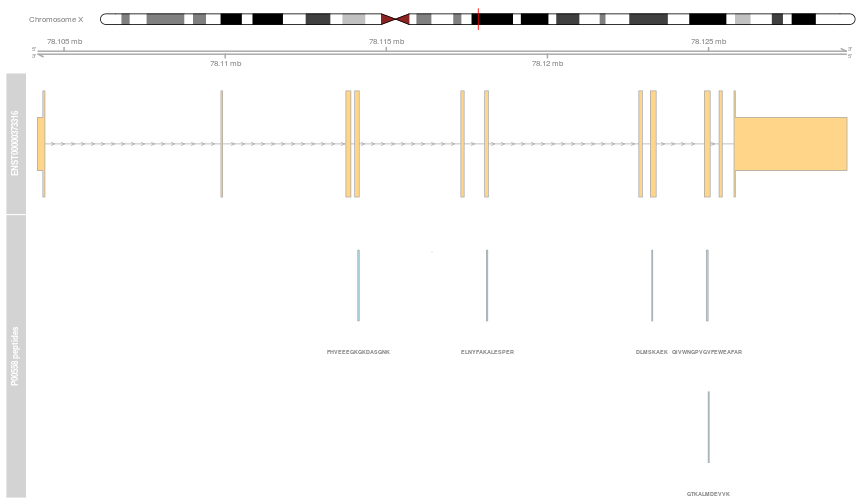
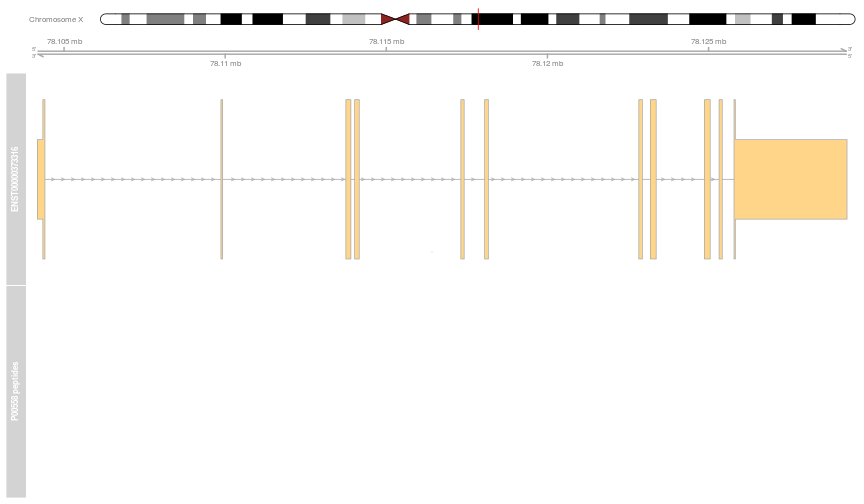
fig placement

diff --git a/mapping.md b/mapping.md
@@ -5,7 +5,7 @@
 The **goal** is to map peptides from protein coordinates (1 to *L_p*)
 to genomic coordinates.
 
-![plot of chunk mapplot](figure/mapplot-1.png) 
+<img src="figure/mapplot-1.png" title="plot of chunk mapplot" alt="plot of chunk mapplot" style="display: block; margin: auto;" />
 
 Illustration with the
 [`Pbase`](http://bioconductor.org/packages/devel/bioc/html/Pbase.html)
@@ -33,7 +33,7 @@ peptides:
 
 For example, P00558:
 
-![plot of chunk pplot1](figure/pplot1-1.png) 
+<img src="figure/pplot1-1.png" title="plot of chunk pplot1" alt="plot of chunk pplot1" style="display: block; margin: auto;" />
 
 ## Genomic coordinates of the transcripts/exons
 
@@ -43,7 +43,7 @@ grl <- etrid2grl(acols(p)$ENST)
 pcgrl <- proteinCoding(grl)
 ```
 
-![plot of chunk gviz1](figure/gviz1-1.png) 
+<img src="figure/gviz1-1.png" title="plot of chunk gviz1" alt="plot of chunk gviz1" style="display: block; margin: auto;" />
 
 ## Mapping peptides to the genome
 
@@ -52,13 +52,43 @@ pcgrl <- proteinCoding(grl)
 res <- pmapToGenome(p, pcgrl)
 ```
 
-![plot of chunk gviz2](figure/gviz2-1.png) 
+```
+## Warning: Mapping failed. Returning an empty range.
+```
+
+```
+## Warning: Mapping failed. Returning an empty range.
+```
+
+```
+## Warning: Mapping failed. Returning an empty range.
+```
+
+```
+## Warning: Mapping failed. Returning an empty range.
+```
+
+
+```
+## Warning in plotTracks(list(ideoTrack, axisTrack, grTrack, pepTrack),
+## groupAnnotation = "id", : The track chromosomes in 'trackList' differ.
+## Setting all tracks to chromosome 'chrX'
+```
+
+<img src="figure/gviz2-1.png" title="plot of chunk gviz2" alt="plot of chunk gviz2" style="display: block; margin: auto;" />
 
 ## Detailed annotation tracks
 
 Maintaining access to the raw MS data
 
-![plot of chunk gviz3](figure/gviz3-1.png) 
+
+```
+## Error in .fillWithDefaults(data.frame(start = as.integer(start), end = as.integer(end)), : Number of elements in argument 'id' is invalid
+```
+
+```
+## Error in plotTracks(list(ideoTrack, axisTrack, deTrack, grTrack), add53 = TRUE, : object 'deTrack' not found
+```
 
 See also
 [Pang et al. (2014)](http://www.ncbi.nlm.nih.gov/pubmed/24152167),

diff --git a/caveats.md b/caveats.md
@@ -16,7 +16,7 @@ But...
 The following values are higher bounds, without peptide filtering for
 gene groups.
 
-![plot of chunk cvg](figure/cvg-1.png) 
+<img src="figure/cvg-1.png" title="plot of chunk cvg" alt="plot of chunk cvg" style="display: block; margin: auto;" />
 
 | Min.| 1st Qu.| Median|  Mean| 3rd Qu.| Max.|
 |----:|-------:|------:|-----:|-------:|----:|
@@ -67,7 +67,7 @@ transcipt identifiers):
 
 - Among these, about half map to mulitple transcript identifiers.
 
-![plot of chunk ids2](figure/ids2-1.png) 
+<img src="figure/ids2-1.png" title="plot of chunk ids2" alt="plot of chunk ids2" style="display: block; margin: auto;" />
 
 **Caveat**: Mapping between single protein and unique transcripts?
 
@@ -138,9 +138,9 @@ processingData(flt)
 
 ```
 ## - - - Processing information - - -
-## Subset [689,16][301,16] Thu Feb 26 11:52:33 2015 
-## Removed features with more than 0 NAs: Thu Feb 26 11:52:33 2015 
-## Dropped featureData's levels Thu Feb 26 11:52:33 2015 
+## Subset [689,16][301,16] Thu Feb 26 11:57:56 2015 
+## Removed features with more than 0 NAs: Thu Feb 26 11:57:56 2015 
+## Dropped featureData's levels Thu Feb 26 11:57:56 2015 
 ##  MSnbase version: 1.15.6
 ```
 
@@ -175,23 +175,10 @@ when data are missing at random.
 
 
 ```
-## 
-## Attaching package: 'gplots'
-## 
-## The following object is masked from 'package:IRanges':
-## 
-##     space
-## 
-## The following object is masked from 'package:stats':
-## 
-##     lowess
-```
-
-```
 ## Error in plot.new(): figure margins too large
 ```
 
-![plot of chunk xv](figure/xv-1.png) 
+<img src="figure/xv-1.png" title="plot of chunk xv" alt="plot of chunk xv" style="display: block; margin: auto;" />
 
 
 ```r
@@ -217,7 +204,7 @@ x
 ## experimentData: use 'experimentData(object)'
 ## Annotation:  
 ## - - - Processing information - - -
-## Data imputation using mixed Thu Feb 26 11:52:34 2015 
+## Data imputation using mixed Thu Feb 26 11:57:56 2015 
 ##   Using default parameters 
 ##  MSnbase version: 1.15.6
 ```

diff --git a/README.md b/README.md
@@ -20,6 +20,9 @@
 - Use case: [mapping](./mapping.md), [multiple matches](./mapping2.md)
 - Use case: [transfer learning](./transfer-learning.md)
 
+### Software
+
+
 
 ### References
 
